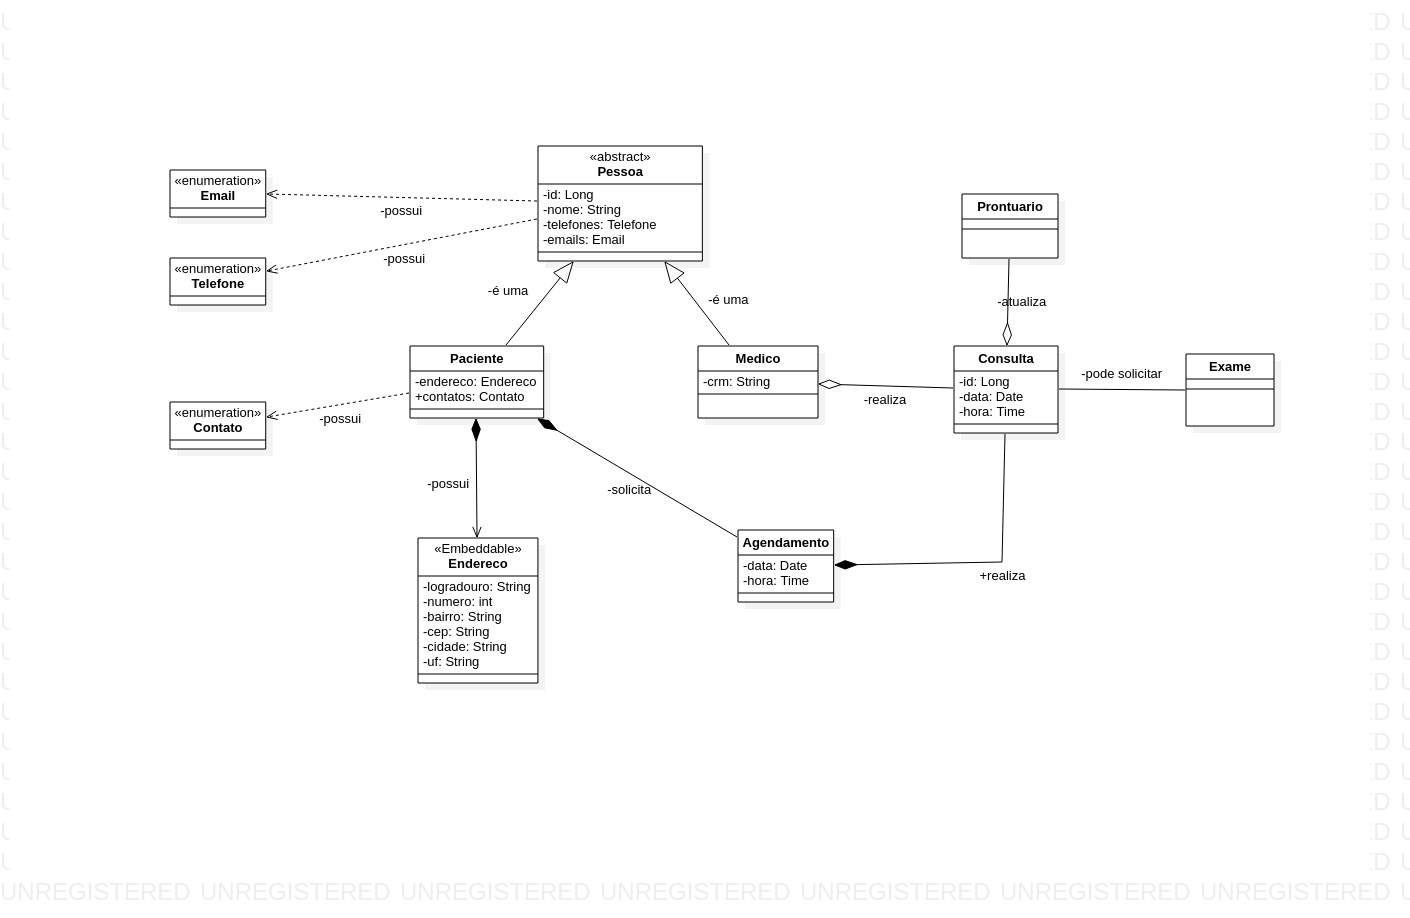
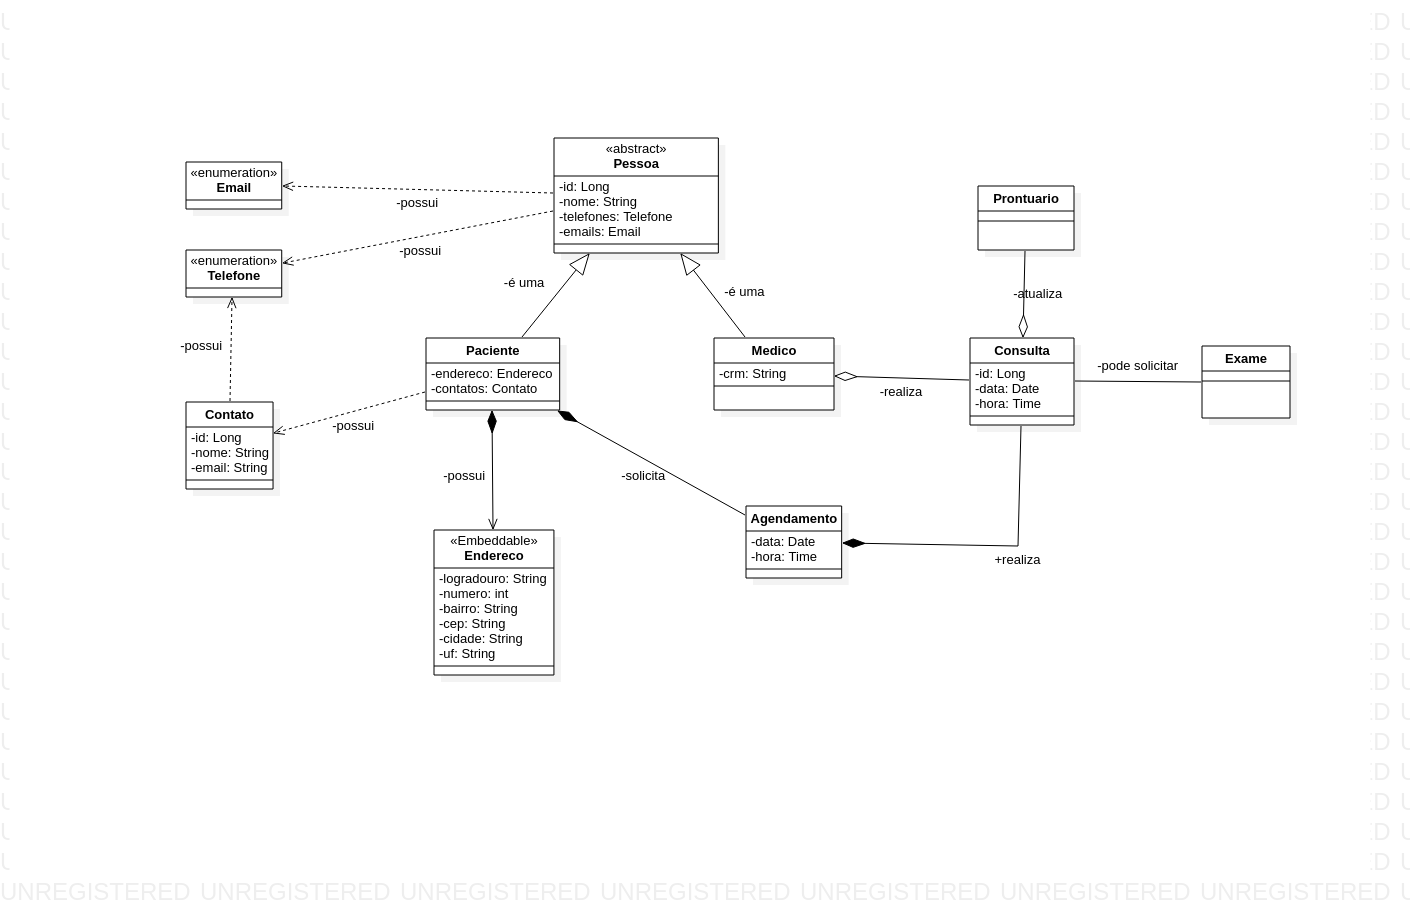
Testando adição de vários telefones

diff --git a/src/main/java/br/com/consultemed/utils/Main.java b/src/main/java/br/com/consultemed/utils/Main.java
@@ -1,5 +1,9 @@
 package br.com.consultemed.utils;
 
+import java.util.Arrays;
+import java.util.HashSet;
+import java.util.Set;
+
 import javax.persistence.EntityManager;
 
 import br.com.consultemed.model.Contato;
@@ -14,11 +18,14 @@ public class Main {
 		
 		contato.setNome("Emiliano Fernandes");
 		contato.setEmail("emilianocarvalho.dev@gmail.com");
-		contato.setTelefones();
-		contato.setTelefone("83 99692-3678");
+		  		
+//        Set<String> telefones = Stream.of("83 99692-3678", "83 99692-3778", "83 99692-3878")
+//        		  .collect(Collectors.toCollection(HashSet::new));
 
-		System.out.println("Contato criado!");
-
+        Set<String> telefones = new HashSet<>(Arrays.asList("83 99692-3678", "83 99692-3778", "83 99692-3878"));
+        
+		contato.setTelefones(telefones);
+		
 		entityManager.getTransaction().begin();
 		entityManager.persist(contato);
 		entityManager.getTransaction().commit();

diff --git a/src/main/java/br/com/consultemed/model/Paciente.java b/src/main/java/br/com/consultemed/model/Paciente.java
@@ -14,4 +14,24 @@ public class Paciente extends Pessoa implements Serializable {
 	
 	@Embedded
 	private Endereco endereco;
+
+	public Contato getContatos() {
+		return contatos;
+	}
+
+	public void setContatos(Contato contatos) {
+		this.contatos = contatos;
+	}
+
+	public Endereco getEndereco() {
+		return endereco;
+	}
+
+	public void setEndereco(Endereco endereco) {
+		this.endereco = endereco;
+	}
+	
+	
+	
 }
+

diff --git a/src/main/java/br/com/consultemed/model/Contato.java b/src/main/java/br/com/consultemed/model/Contato.java
@@ -70,5 +70,11 @@ public class Contato implements Serializable {
 		return id;
 	}
 
+	@Override
+	public String toString() {
+		return "Contato [id=" + id + ", nome=" + nome + ", email=" + email + ", telefones=" + telefones + "]";
+	}
+
+	
 	
 }
